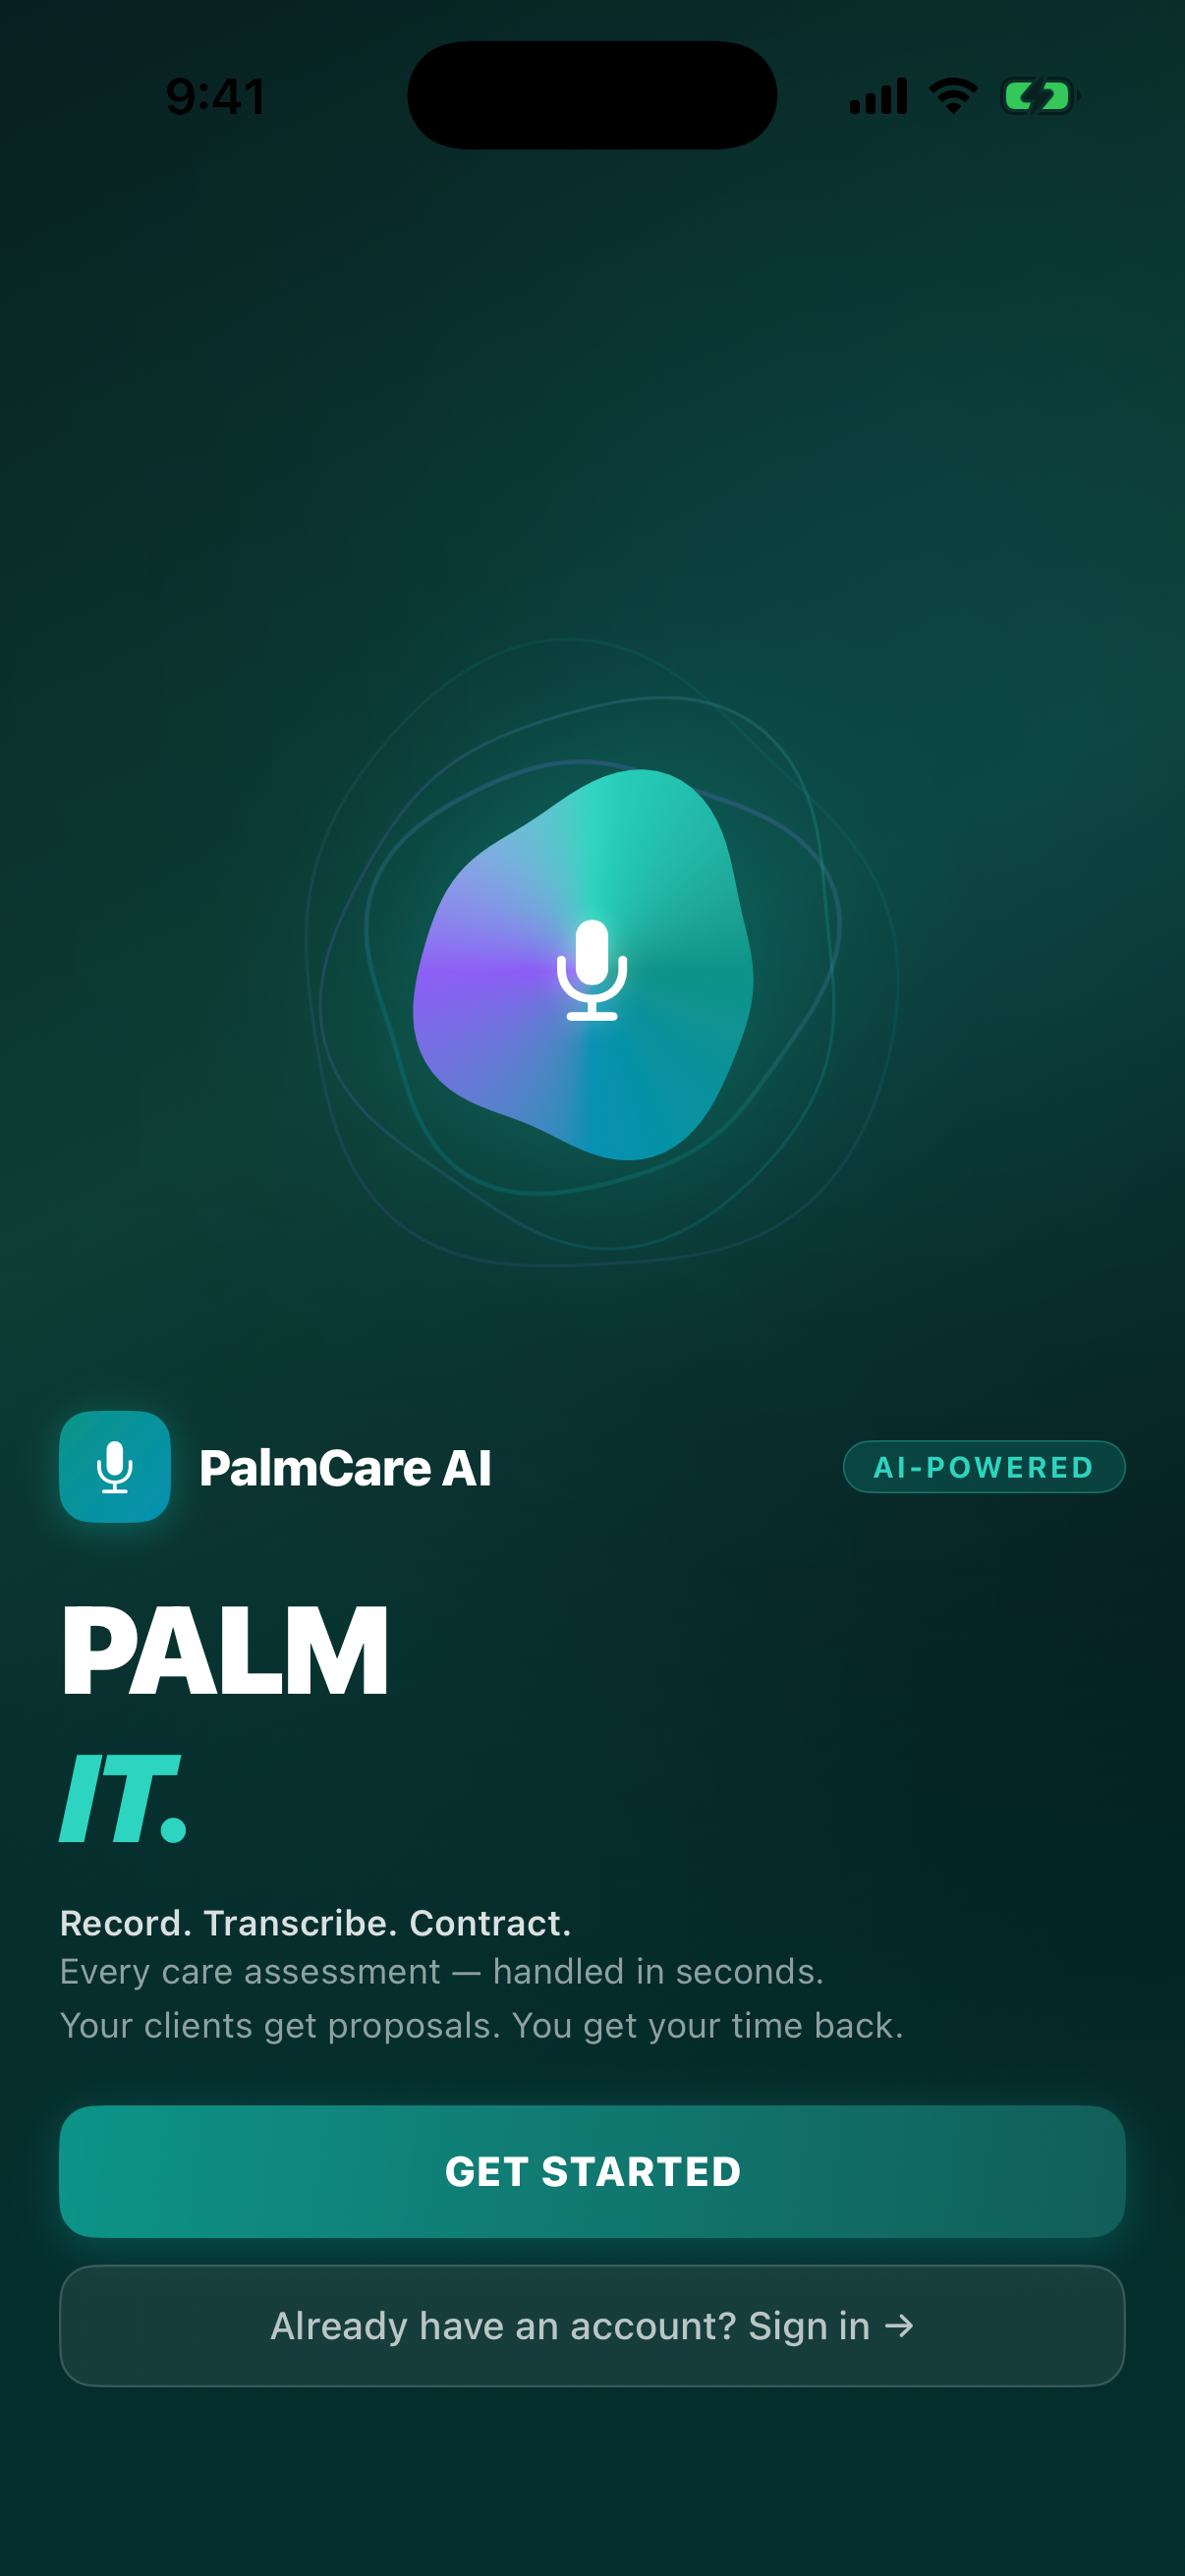
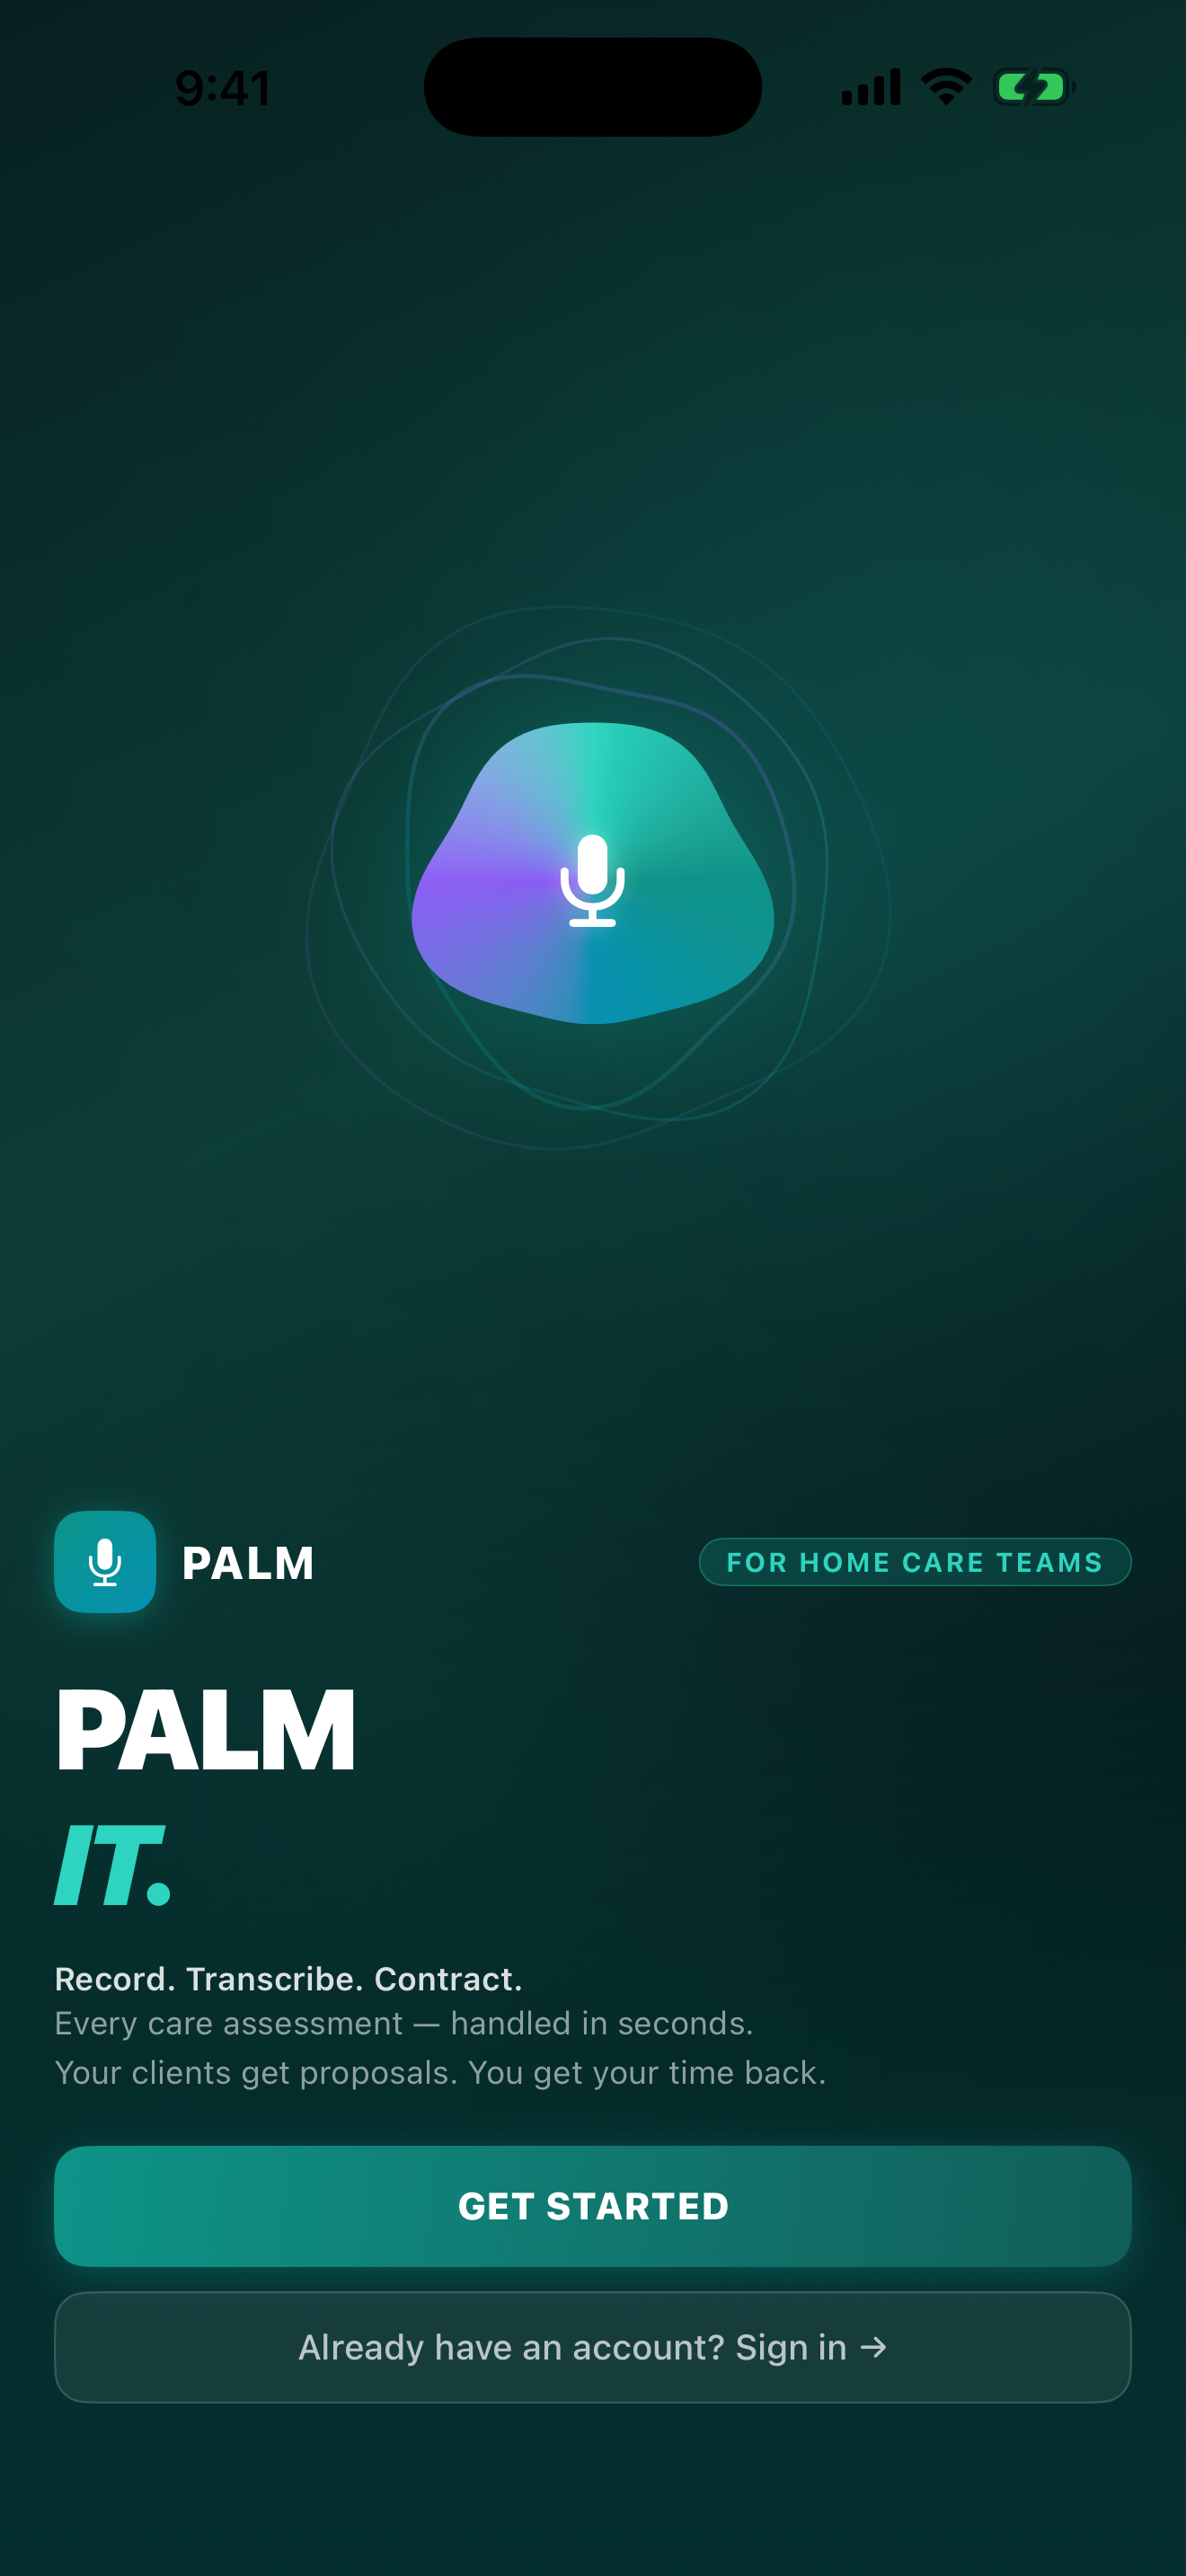
feat: fresh PALM app screenshots (App Store 6.9" set) + 51-state assessment test
- 19 professional screenshots of every app screen at 1320x2868 in marketing/app-store-screenshots/
- Old iOS/iphone/marketing screenshots deleted (recording shots kept), web ios/ set replaced with rebranded captures
- Visit.displayStatus: "pending_review" renders as "Pending Review" in all status badges
- scripts/test_all_states.py: structural validation + real LLM contract analysis per state (51/51 passed)
- Registration welcome message rebranded to PALM

diff --git a/ios-app/PalmCareAI/Models/Visit.swift b/ios-app/PalmCareAI/Models/Visit.swift
@@ -15,6 +15,11 @@ struct Visit: Codable, Identifiable {
     let updated_at: String?
     let client: Client?
     let caregiver: User?
+
+    /// "pending_review" → "Pending Review" for status badges.
+    var displayStatus: String {
+        status.replacingOccurrences(of: "_", with: " ").capitalized
+    }
 }
 
 struct VisitListResponse: Codable {

diff --git a/ios-app/PalmCareAI/Views/Visits/VisitDetailView+Shared.swift b/ios-app/PalmCareAI/Views/Visits/VisitDetailView+Shared.swift
@@ -93,7 +93,7 @@ extension VisitDetailView {
             switch status.lowercased() {
             case "completed": return .palmGreen
             case "processing": return .palmBlue
-            case "pending": return .palmOrange
+            case "pending", "pending_review": return .palmOrange
             case "failed": return .red
             default: return .palmSecondary
             }
@@ -101,7 +101,7 @@ extension VisitDetailView {
 
         return HStack(spacing: 4) {
             Circle().fill(color).frame(width: 6, height: 6)
-            Text(status.capitalized)
+            Text(status.replacingOccurrences(of: "_", with: " ").capitalized)
                 .font(.system(size: 11, weight: .bold))
                 .foregroundColor(color)
         }

diff --git a/ios-app/PalmCareAI/Views/Clients/ClientDetailView+Details.swift b/ios-app/PalmCareAI/Views/Clients/ClientDetailView+Details.swift
@@ -215,7 +215,7 @@ extension ClientDetailView {
 
             Spacer()
 
-            Text(visit.status.capitalized)
+            Text(visit.displayStatus)
                 .font(.system(size: 10, weight: .bold))
                 .foregroundColor(visitStatusColor)
                 .padding(.horizontal, 8)

diff --git a/ios-app/PalmCareAI/Views/Home/HomeView.swift b/ios-app/PalmCareAI/Views/Home/HomeView.swift
@@ -372,7 +372,7 @@ struct VisitRow: View {
 
             Spacer()
 
-            Text(visit.status.capitalized)
+            Text(visit.displayStatus)
                 .font(.system(size: 10, weight: .semibold))
                 .foregroundColor(statusColor)
                 .padding(.horizontal, 8)

diff --git a/ios-app/PalmCareAI/Views/Visits/AssessmentsListView.swift b/ios-app/PalmCareAI/Views/Visits/AssessmentsListView.swift
@@ -188,7 +188,7 @@ struct AssessmentsListView: View {
             VStack(alignment: .trailing, spacing: 4) {
                 HStack(spacing: 4) {
                     Circle().fill(statusColor).frame(width: 6, height: 6)
-                    Text(visit.status.capitalized)
+                    Text(visit.displayStatus)
                         .font(.system(size: 10, weight: .bold))
                         .foregroundColor(statusColor)
                 }

diff --git a/scripts/test_all_states.py b/scripts/test_all_states.py
@@ -1,0 +1,180 @@
+#!/usr/bin/env python3
+"""
+50-state (+DC) assessment readiness test.
+
+Phase 1 — structural validation of STATE_RULES (free, instant):
+  every jurisdiction has all required fields, valid consent type,
+  and a non-empty LLM prompt block.
+
+Phase 2 — real contract analysis per state (LLM calls):
+  runs the production contract-extraction step
+  (LLMService.analyze_transcript_for_contract) against a realistic
+  assessment transcript for EVERY state, verifying each state's rules
+  inject correctly and a usable contract payload comes back.
+
+Usage:
+  python3 scripts/test_all_states.py            # phase 1 only
+  python3 scripts/test_all_states.py --llm      # phases 1 + 2
+  python3 scripts/test_all_states.py --llm --states FL,CA,NY
+"""
+import argparse
+import json
+import os
+import sys
+from concurrent.futures import ThreadPoolExecutor, as_completed
+from pathlib import Path
+
+ROOT = Path(__file__).resolve().parent.parent
+sys.path.insert(0, str(ROOT / "apps" / "worker"))
+
+# Load .env for ANTHROPIC_API_KEY
+for line in (ROOT / ".env").read_text().splitlines():
+    if "=" in line and not line.strip().startswith("#"):
+        k, _, v = line.partition("=")
+        os.environ.setdefault(k.strip(), v.strip())
+
+from libs.state_rules import (  # noqa: E402
+    STATE_RULES,
+    TWO_PARTY_CONSENT_STATES,
+    get_recording_consent,
+    get_state_rules_for_prompt,
+)
+
+REQUIRED_FIELDS = [
+    "name", "medicaid_program", "hcbs_waivers", "assessment_tool",
+    "assessment_requirements", "reassessment_frequency", "recording_consent",
+    "licensing", "billing_codes", "key_regulations", "special_requirements",
+]
+
+ALL_JURISDICTIONS = {
+    "AL", "AK", "AZ", "AR", "CA", "CO", "CT", "DE", "DC", "FL", "GA", "HI",
+    "ID", "IL", "IN", "IA", "KS", "KY", "LA", "ME", "MD", "MA", "MI", "MN",
+    "MS", "MO", "MT", "NE", "NV", "NH", "NJ", "NM", "NY", "NC", "ND", "OH",
+    "OK", "OR", "PA", "RI", "SC", "SD", "TN", "TX", "UT", "VT", "VA", "WA",
+    "WV", "WI", "WY",
+}
+
+TRANSCRIPT = """
+Speaker 0: Good morning Mrs Whitfield, I'm Maria from Sunrise Home Care. I'm here to do your care assessment today. How are you feeling?
+Speaker 1: Good morning. I'm doing alright, though my memory has been giving me some trouble lately, and I get a bit unsteady on the stairs.
+Speaker 0: I understand. Let's talk about your daily routine. Do you need help with bathing or getting dressed in the morning?
+Speaker 1: I can dress myself mostly, but I do need someone nearby when I bathe. I'm afraid of slipping. And I sometimes forget whether I took my pills.
+Speaker 0: Okay, so we'll plan for bathing assistance and medication reminders twice a day. What about meals? Are you able to cook for yourself?
+Speaker 1: My daughter brings groceries, but cooking is hard now. I left the stove on twice last month. I'd feel safer if someone helped with lunch and dinner.
+Speaker 0: That's very helpful to know. We'll include meal preparation for lunch and dinner, five days a week. Do you use a walker or cane when you move around the house?
+Speaker 1: I have a walker for outside, but inside I hold onto the furniture. The doctor said I should use it indoors too after my fall in January.
+Speaker 0: I'll note fall risk and mobility assistance. We'll also do light housekeeping and laundry weekly. Based on what we discussed, I'm recommending personal care four hours daily, seven days a week, with medication reminders, bathing assistance, meal preparation, and companionship. Does that sound right to you?
+Speaker 1: Yes, that sounds like exactly what I need. Thank you Maria. Will the same caregiver come each day?
+Speaker 0: We'll assign a primary caregiver with a backup, so you'll always see a familiar face. I'll have the service agreement ready for you and your daughter to review today.
+""".strip()
+
+CLIENT_INFO = {
+    "full_name": "Eleanor Whitfield",
+    "date_of_birth": "1941-03-22",
+    "primary_diagnosis": "Dementia, early stage",
+    "care_level": "HIGH",
+    "insurance_type": "medicare",
+}
+
+
+def phase1() -> bool:
+    print(f"=== Phase 1: structural validation of {len(STATE_RULES)} jurisdictions ===")
+    failures = []
+
+    missing = ALL_JURISDICTIONS - set(STATE_RULES)
+    extra = set(STATE_RULES) - ALL_JURISDICTIONS
+    if missing:
+        failures.append(f"missing jurisdictions: {sorted(missing)}")
+    if extra:
+        failures.append(f"unexpected jurisdictions: {sorted(extra)}")
+
+    for code, rules in sorted(STATE_RULES.items()):
+        for field in REQUIRED_FIELDS:
+            value = rules.get(field)
+            if not value or not str(value).strip():
+                failures.append(f"{code}: missing/empty field '{field}'")
+
+        consent = get_recording_consent(code)
+        declared = rules.get("recording_consent", "")
+        if code in TWO_PARTY_CONSENT_STATES and "two-party" not in consent:
+            failures.append(f"{code}: in TWO_PARTY set but consent lookup says '{consent}'")
+        if "two-party" in declared and "two-party" not in consent and code != "OR":
+            failures.append(f"{code}: rules say '{declared}' but lookup says '{consent}'")
+
+        prompt = get_state_rules_for_prompt(code)
+        if rules["name"] not in prompt or rules["billing_codes"] not in prompt:
+            failures.append(f"{code}: prompt block missing name or billing codes")
+
+    if failures:
+        print(f"FAIL — {len(failures)} problems:")
+        for f in failures:
+            print(f"  - {f}")
+        return False
+    print(f"PASS — all {len(STATE_RULES)} jurisdictions structurally valid "
+          f"({len(TWO_PARTY_CONSENT_STATES)} two-party consent states + OR mixed)")
+    return True
+
+
+def run_state(code: str) -> tuple[str, str, str]:
+    """Returns (code, PASS/FAIL, detail)."""
+    from libs.llm import LLMService
+    svc = LLMService(model="claude-sonnet-4-20250514")
+    try:
+        result = svc.analyze_transcript_for_contract(
+            TRANSCRIPT, CLIENT_INFO, agency_state=code,
+        )
+        if not isinstance(result, dict) or not result:
+            return code, "FAIL", "empty/non-dict result"
+
+        text = json.dumps(result).lower()
+        problems = []
+        if "error" in result:
+            problems.append(f"error key: {result['error']}")
+        # The contract payload should reflect the care discussed
+        for needle in ("bath", "meal", "medication"):
+            if needle not in text:
+                problems.append(f"'{needle}' missing from extraction")
+        if problems:
+            return code, "FAIL", "; ".join(problems)
+        return code, "PASS", f"{len(json.dumps(result))} bytes extracted"
+    except Exception as e:  # noqa: BLE001
+        return code, "FAIL", f"{type(e).__name__}: {e}"
+
+
+def phase2(states: list[str]) -> bool:
+    print(f"\n=== Phase 2: LLM contract analysis for {len(states)} states ===")
+    results = {}
+    with ThreadPoolExecutor(max_workers=5) as pool:
+        futures = {pool.submit(run_state, code): code for code in states}
+        done = 0
+        for fut in as_completed(futures):
+            code, status, detail = fut.result()
+            results[code] = (status, detail)
+            done += 1
+            print(f"[{done:2}/{len(states)}] {code}: {status} — {detail}", flush=True)
+
+    failed = {c: d for c, (s, d) in results.items() if s != "PASS"}
+    print(f"\n{len(results) - len(failed)}/{len(results)} states passed")
+    if failed:
+        print("FAILED STATES:")
+        for code, detail in sorted(failed.items()):
+            print(f"  {code}: {detail}")
+        return False
+    return True
+
+
+if __name__ == "__main__":
+    parser = argparse.ArgumentParser()
+    parser.add_argument("--llm", action="store_true", help="run LLM contract analysis per state")
+    parser.add_argument("--states", help="comma-separated subset, e.g. FL,CA,NY")
+    args = parser.parse_args()
+
+    ok = phase1()
+    if args.llm:
+        if args.states:
+            targets = [s.strip().upper() for s in args.states.split(",")]
+        else:
+            targets = sorted(STATE_RULES)
+        ok = phase2(targets) and ok
+
+    sys.exit(0 if ok else 1)

diff --git a/apps/api/app/routers/business_auth/registration.py b/apps/api/app/routers/business_auth/registration.py
@@ -253,7 +253,7 @@ async def register_business(
     return BusinessRegistrationResponse(
         business_id=business.id,
         verification_status=VerificationStatusEnum(business.verification_status),
-        message="Welcome to PalmCare AI!",
+        message="Welcome to PALM!",
         next_steps=next_steps,
         access_token=token,
     )